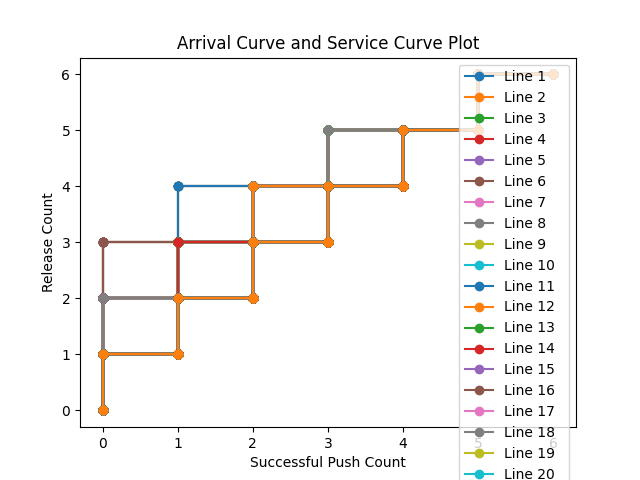
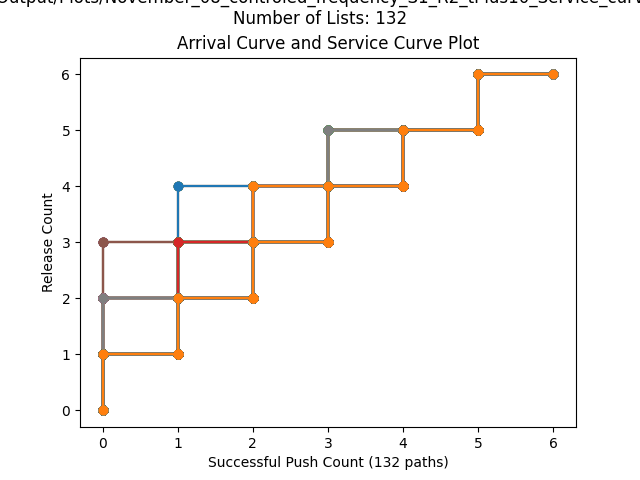
Path trace added

diff --git a/Simulator.py b/Simulator.py
@@ -665,7 +665,7 @@ class Simulator:
         return hash_table
     
 
-    def visualize_dag(self, file_name='Digraph' ,const_prob=0.8):
+    def visualize_dag(self, file_name='Digraph' ,const_prob=0.8, path_trace=[]):
         """Visualize the graph of the simulator and
         save it with the given file name in the ./Output/Graphs/ directory
 
@@ -688,14 +688,14 @@ class Simulator:
         graph = Digraph(f'./Output/Graphs/{file_name}', format='png')
         
         # Calling the helper function to draw the graph with the given parameters
-        self.draw_nodes_and_edges(root, graph, const_prob)
+        self.draw_nodes_and_edges(root, graph, const_prob, path_trace)
         
         # Generate the graph and clean the redundent files
         graph.view(cleanup=True)
         return
 
 
-    def draw_nodes_and_edges(self, root, graph, const_prob):
+    def draw_nodes_and_edges(self, root, graph, const_prob, path_trace):
         """Helpper function for the visualize_dag function to generate
         every node accessible from the root
 
@@ -721,9 +721,12 @@ class Simulator:
                 probability = int(prob_float * 100)                
                 
                 # Set the vizual atribute of the node based on it's info
+                
+                
                 if node.model == 'unsat':
                     fill_color = 'pink'
                     font_color = 'Black'
+                    
                 else:
                     fill_color = f'gray{probability}'
                                     
@@ -731,6 +734,13 @@ class Simulator:
                         font_color = 'white'
                     else:
                         font_color = 'Black'
+                
+                for nodeID_prob in path_trace:
+                    if nodeID_prob[0] == node.id and nodeID_prob[1] == str(node.prob):
+                        fill_color = 'gold'
+                        font_color = 'Black'
+                
+                
                     
                # Generate node's vizual reperesentation
                 graph.node(repr(node), 
@@ -985,10 +995,10 @@ class Simulator:
         dfs(self.root, [self.root])
         
         print('Number of paths: ',len(paths))
-        for path in paths:
-            for node in path:
-                print(str(node.id)[:5])
-            print('-'*50)
+        # for path in paths:
+        #     for node in path:
+        #         print(str(node.id)[:5])
+        #     print('-'*50)
         return paths
     
          
@@ -1006,7 +1016,25 @@ class Simulator:
         
         return all_curves
 
-
+    
+    def path_to_id(self, hash_table):
+        all_paths = self.findPaths(hash_table)
+        all_IDs = list()
+        for path in all_paths:
+            IDs = list()
+            for node in path:
+                IDs.append([node.id, str(node.prob)])
+                
+            all_IDs.append(IDs)
+        
+        # for path in all_IDs:
+        #     for nodeID in path:
+        #         print(nodeID[0][:5], str(nodeID[1]))
+        #     print('-'*50)
+        
+        return all_IDs
+            
+            
     def plot_curves(self, hash_table, plot_name):
         curves = self.paths_to_curves(hash_table)
         

diff --git a/Launcher.py b/Launcher.py
@@ -230,12 +230,22 @@ def while_with_conditional_split(S=100, R=100, t_plus=200):
             simulation_name = f'{today_date}_controled_frequency_S{S}_R{R}_tPlus{t_plus}'
             # simu.test_of_correctness(hash_table=hash_table, std_out=True)
             
-            simu.imprint_hash_table(simulation_name, hash_table, const_prob=0.9)
+            # simu.imprint_hash_table(simulation_name, hash_table, const_prob=0.9)
             # simu.test_of_correctenss2(hash_table, std_out=False)
             # simu.findPaths(hash_table)
             # simu.paths_to_curves(hash_table)
             simu.plot_curves(hash_table, './Output/Plots/'+simulation_name+'_Service_curve')
-            simu.visualize_dag(simulation_name, const_prob=const_prob)
+            # simu.visualize_dag(simulation_name, const_prob=const_prob)
+            
+            
+            # --- Verify every single curve by visualizing them all (TIME CONSUMING)
+            # ids_of_paths = simu.path_to_id(hash_table)
+            # path_counter = 0
+            # for path in ids_of_paths:
+            #     simu.visualize_dag(simulation_name+f'Path#{path_counter}', const_prob=const_prob, path_trace=path)
+            #     path_counter += 1
+                
+                
             return hash_table
         
         clock += 1
@@ -311,7 +321,7 @@ def main():
     # while_with_controled_frequency_new(S=50, R=100, t=0, t_plus=150)
     
     # === Step five ===
-    while_with_conditional_split(S=1, R=2, t_plus=4)
+    while_with_conditional_split(S=1, R=2, t_plus=20)
     
     # === Kowsar's ==
     # kowsars_work()
